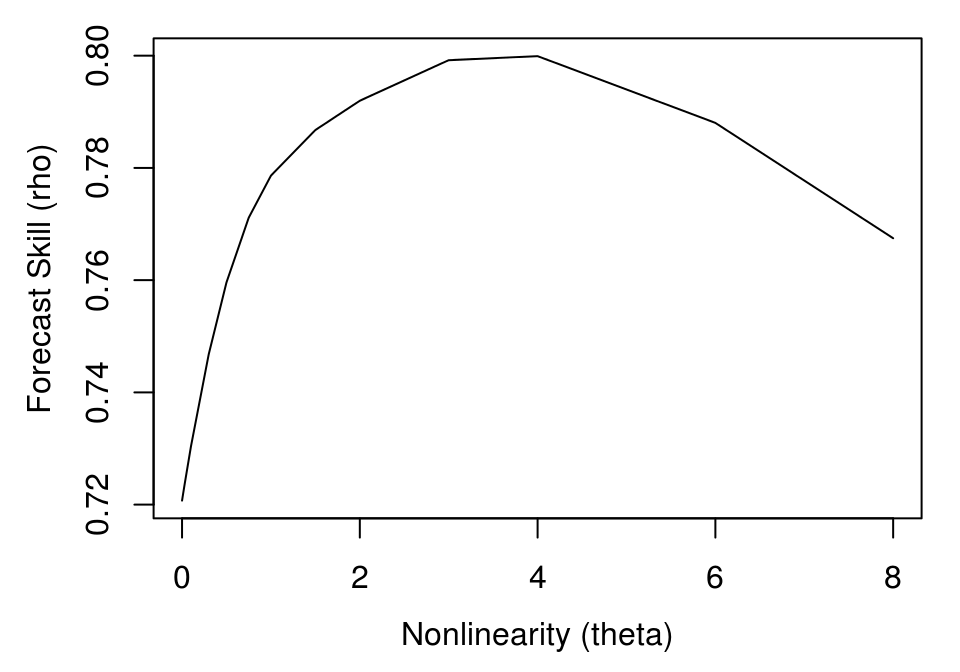
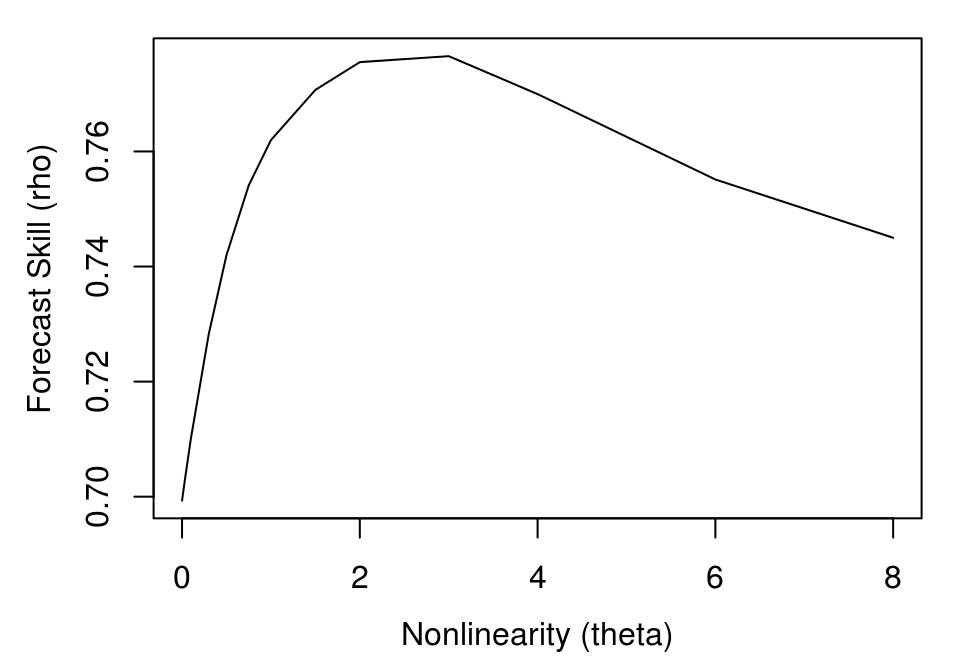
Deploy ha0ye/rEDM to github.com/ha0ye/rEDM.git:gh-pages

diff --git a/articles/rEDM.html b/articles/rEDM.html
@@ -487,9 +487,9 @@
 ##  $ target_column: Factor w/ 1 level "np_sst": 1 1 1 1 1 1 1 1 1 1 ...
 ##  $ lib_size     : num  10 10 10 10 10 10 10 10 10 10 ...
 ##  $ num_pred     : num  76 76 76 76 76 76 76 76 76 76 ...
-##  $ rho          : num  0.0122 0.2926 -0.0976 -0.0667 0.228 ...
-##  $ mae          : num  1.059 0.889 0.938 0.896 0.964 ...
-##  $ rmse         : num  1.31 1.09 1.17 1.12 1.19 ...</code></pre>
+##  $ rho          : num  0.0739 0.276 0.0685 0.0856 0.056 ...
+##  $ mae          : num  0.996 0.966 0.929 0.842 0.85 ...
+##  $ rmse         : num  1.22 1.21 1.18 1.11 1.07 ...</code></pre>
 <p>The output is a data.frame with statistics for each model run (in this case, 100 models at each of 8 library sizes). To interpret the results, we aggregate the cross map performance at each library size using the <code><a href="../reference/ccm_means.html">ccm_means()</a></code> function, which computes a mean value at each unique <code>lib_size</code>. Because average cross map skill less than 0 means there is no prediction skill, (predictions should not be anticorrelated with observations), we set negative values to 0 when plotting.</p>
 <div class="sourceCode" id="cb35"><pre class="sourceCode r"><code class="sourceCode r"><a class="sourceLine" id="cb35-1" data-line-number="1">a_xmap_t_means &lt;-<span class="st"> </span><span class="kw"><a href="../reference/ccm_means.html">ccm_means</a></span>(anchovy_xmap_sst)</a>
 <a class="sourceLine" id="cb35-2" data-line-number="2">t_xmap_a_means &lt;-<span class="st"> </span><span class="kw"><a href="../reference/ccm_means.html">ccm_means</a></span>(sst_xmap_anchovy)</a>
